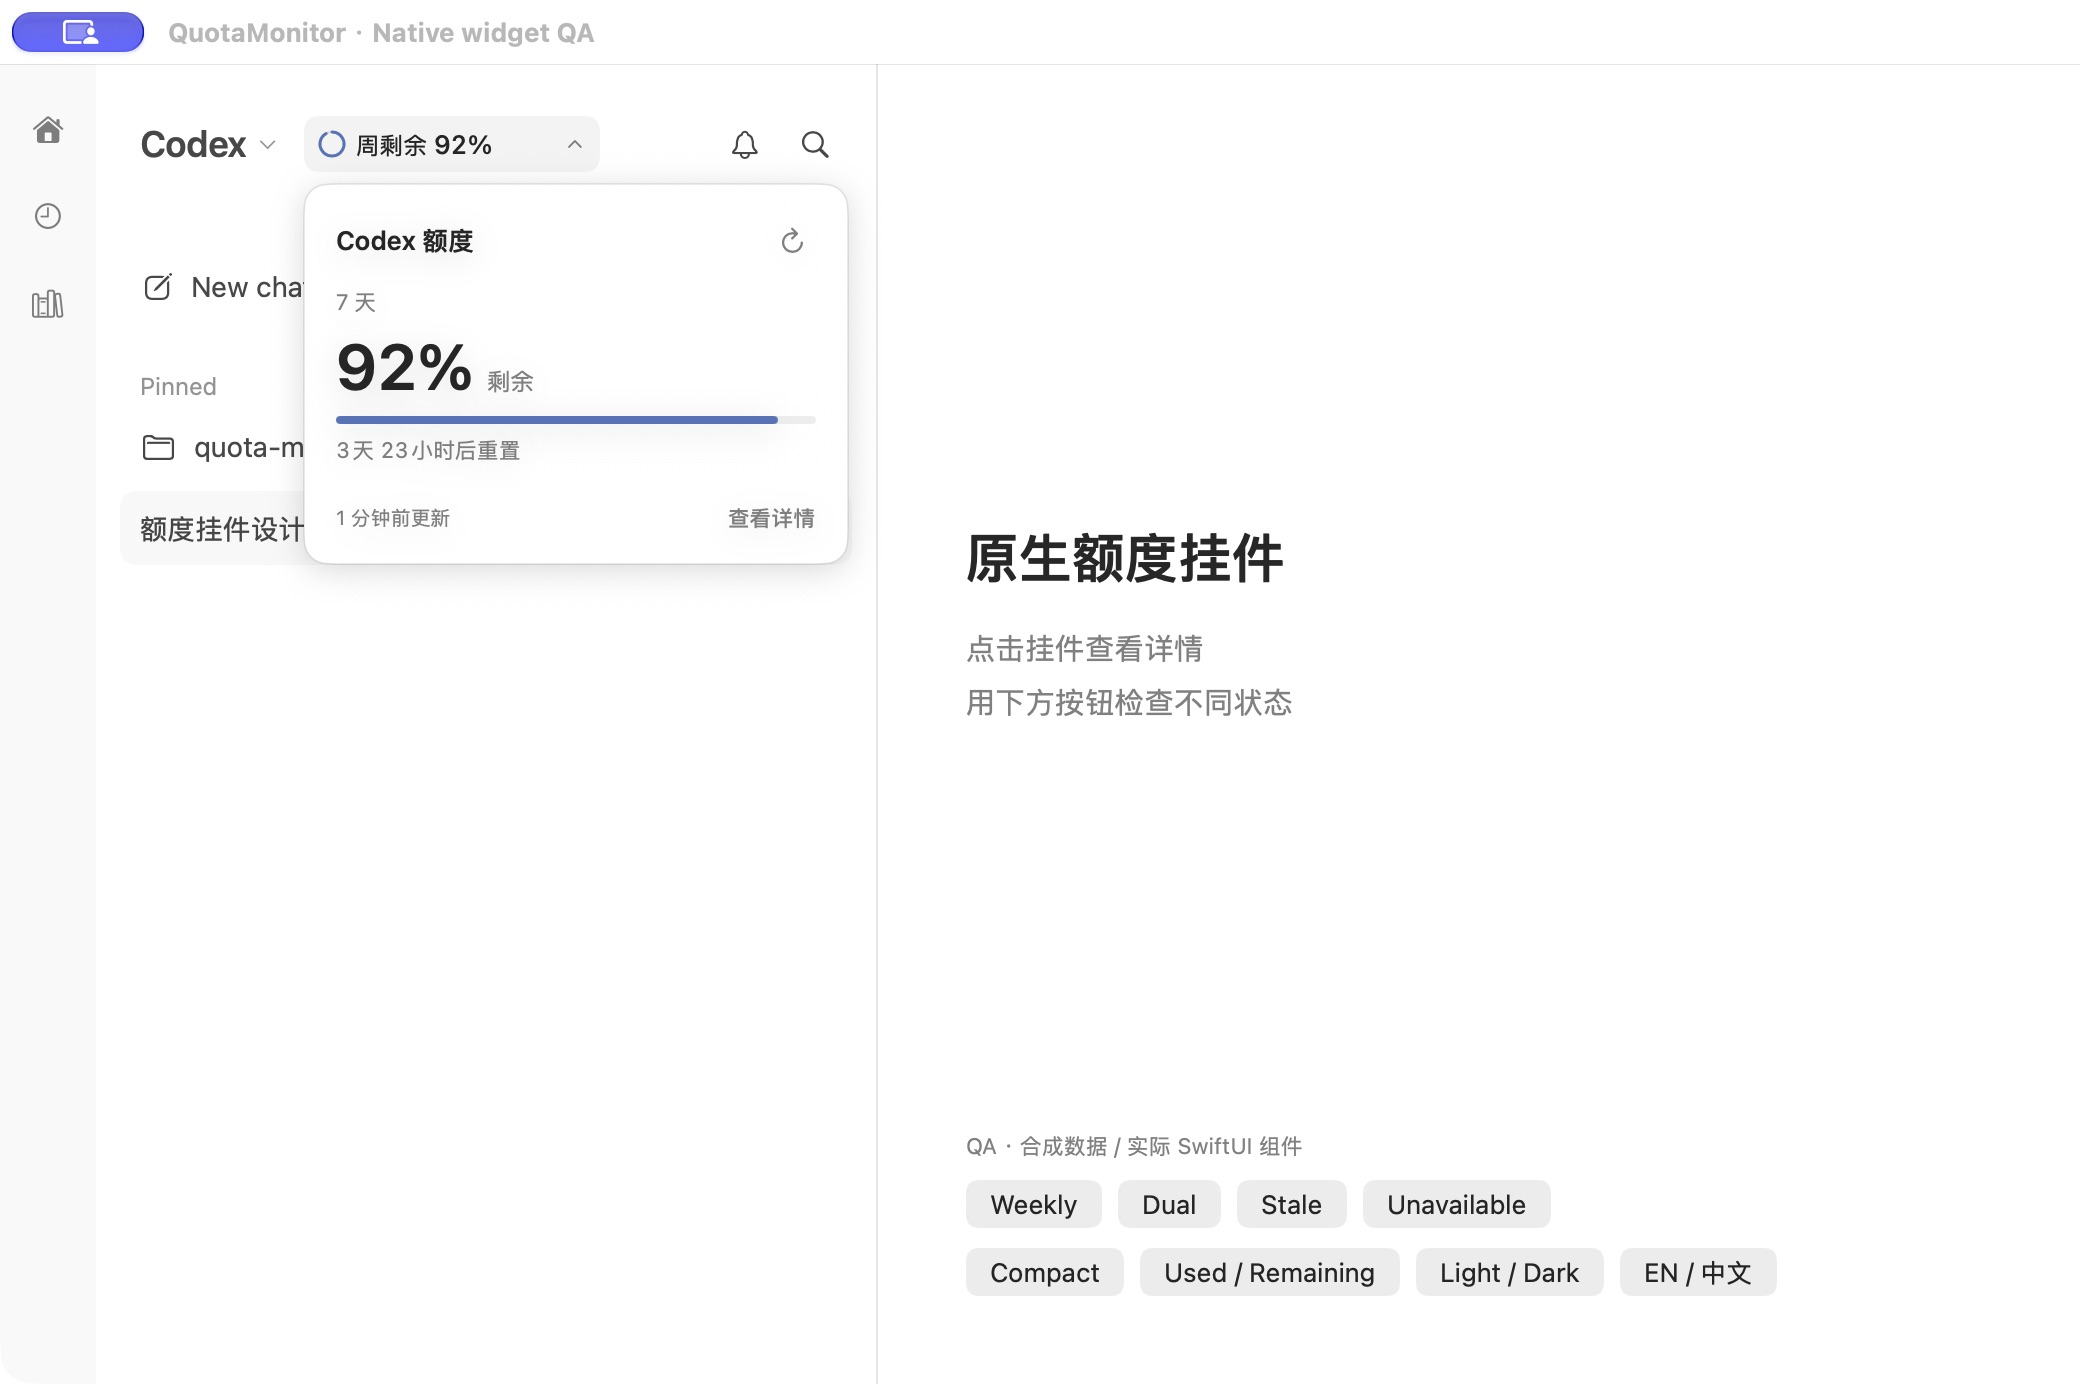
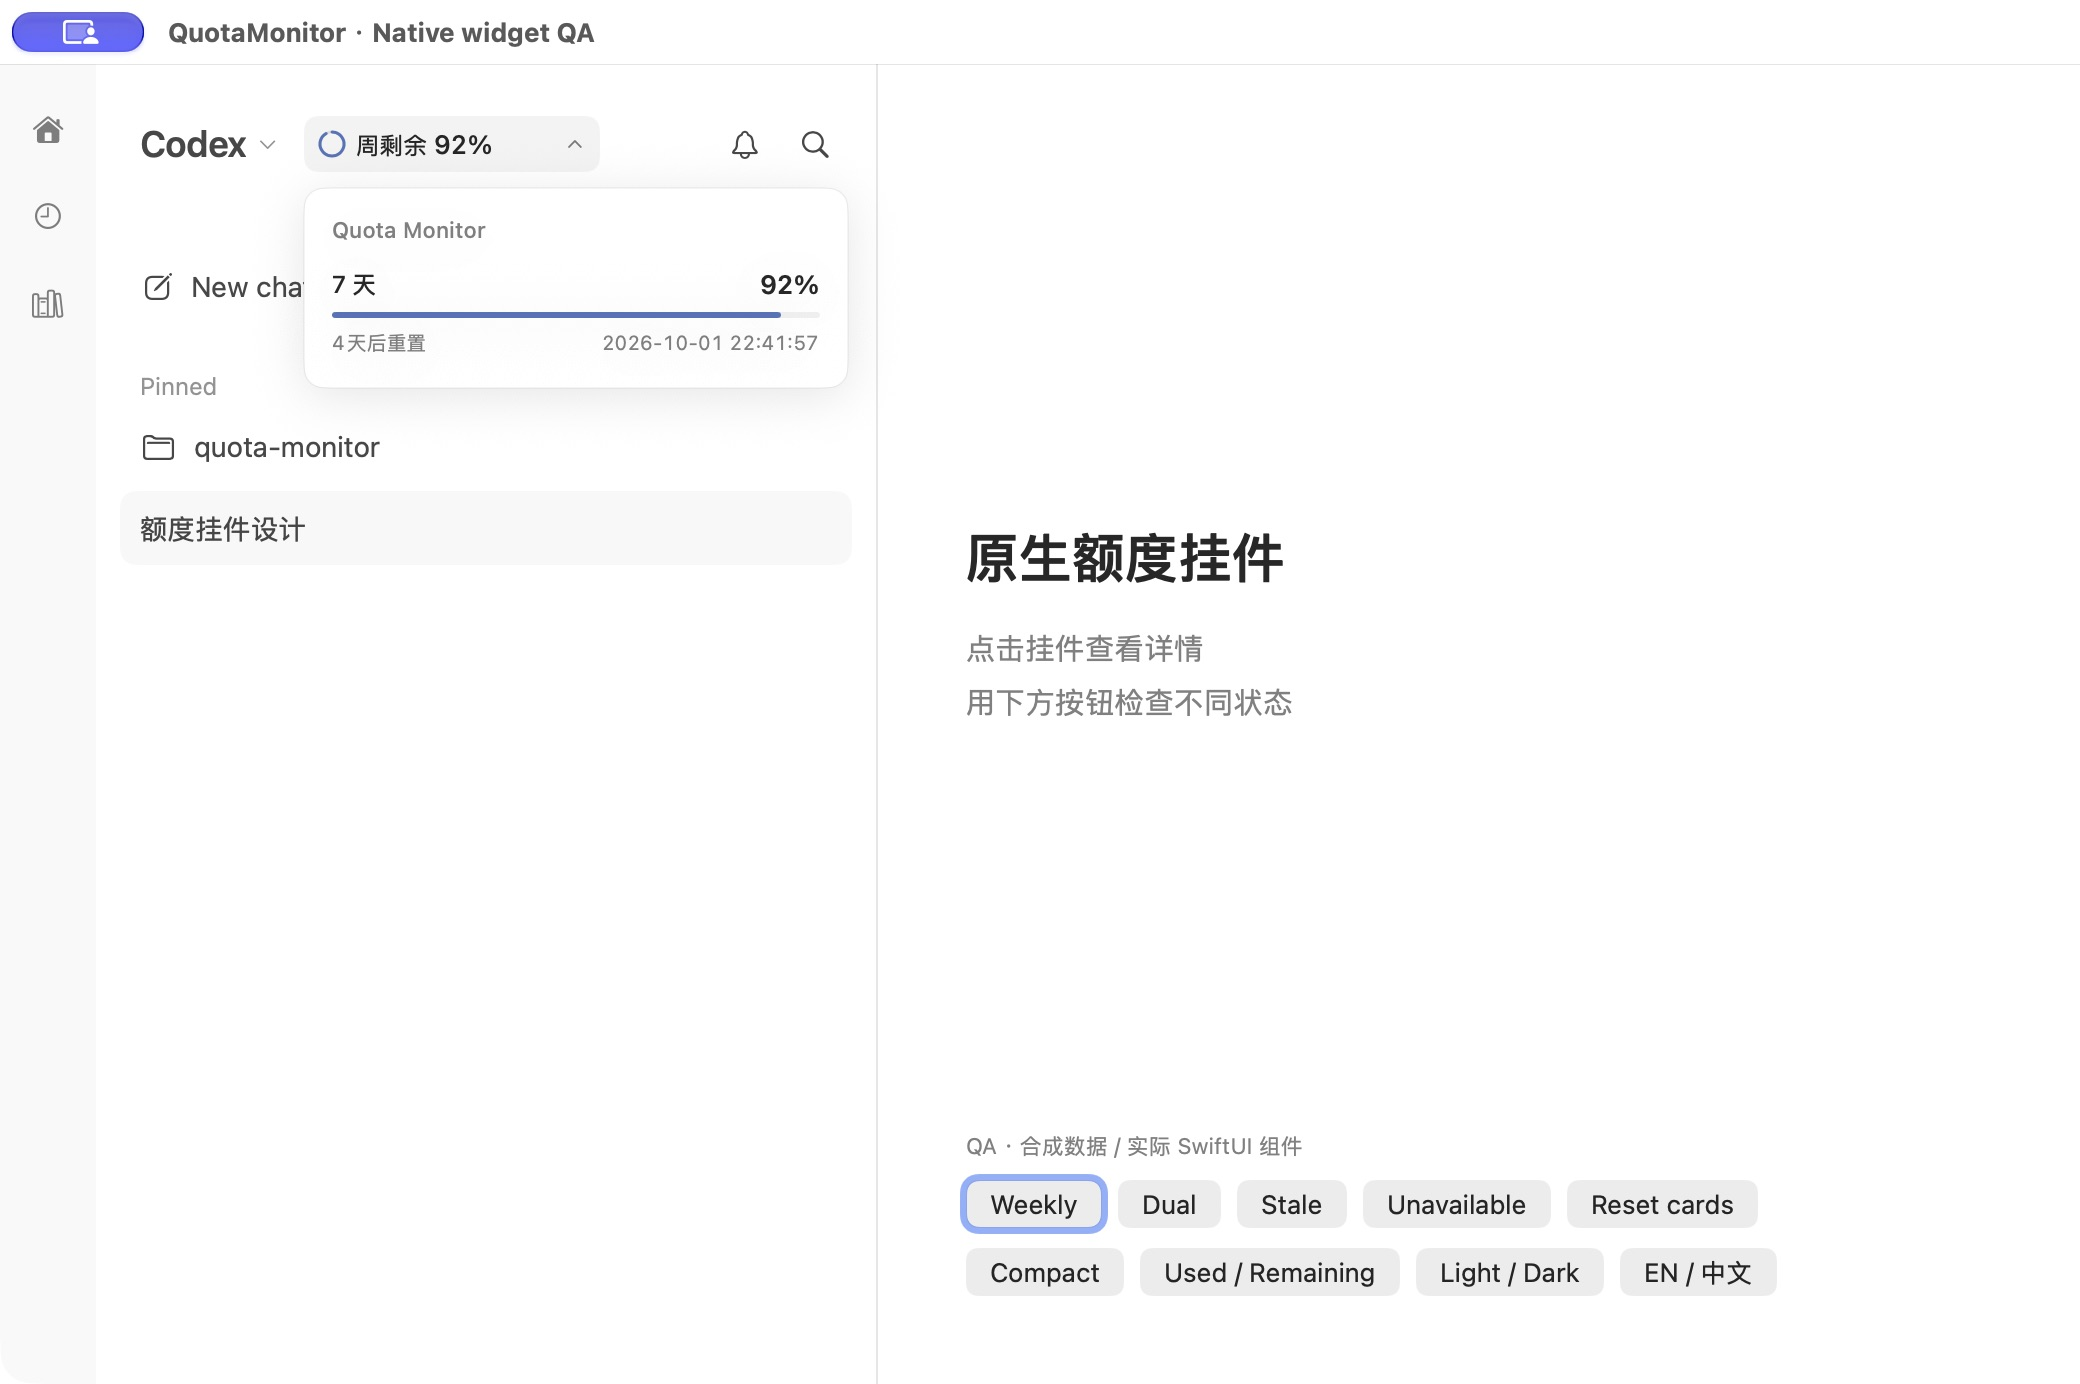
Refresh native screenshots for the compact quota details

diff --git a/docs/qa/sidebar-native-widget/README.md b/docs/qa/sidebar-native-widget/README.md
@@ -1,6 +1,6 @@
 # Sidebar quota widget — native visual evidence
 
-Captured from the running macOS build of `125a543a7713d7513d33117ba1e8363370bd959a` (app version 1.0.8). The following documentation-only commit adds these images without changing app code. Hashes and capture metadata are in [capture.json](capture.json).
+Captured from the running macOS build of `b1d35ecd3c5d316f9e23442eceff8db836cb3760` (app version 1.0.8). The following documentation-only commit adds these images without changing app code. Hashes and capture metadata are in [capture.json](capture.json).
 
 These are Computer Use screenshots of the shipping SwiftUI summary and details components rendered in an isolated native QA gallery, using synthetic quota. The surrounding sidebar is a fixture. The images are not generated mockups or captures of the real Codex host.
 
@@ -10,13 +10,14 @@ These are Computer Use screenshots of the shipping SwiftUI summary and details c
 QM_QA_LANGUAGE=zh-Hans ./qa/prepare-sidebar-widget-preview.sh
 ```
 
-This builds the app, copies it into a uniquely identified QA bundle, and launches with an isolated home, defaults suite, and database. It leaves existing app processes and the installed application untouched. Use the gallery controls for weekly, dual-window, stale, unavailable, compact, used/remaining, locale, and appearance states. Normal launches do not enable the gallery.
+This builds the app, copies it into a uniquely identified QA bundle, and launches with an isolated home, defaults suite, and database. It leaves existing app processes and the installed application untouched. Use the gallery controls for weekly, dual-window, stale, unavailable, reset cards, compact, used/remaining, locale, and appearance states. Normal launches do not enable the gallery.
 
 ## Verification
 
 - `swift test --disable-keychain --filter 'CodexQuotaOverlayTests|RateLimitPollerTests'`: 35 tests passed.
 - `./qa/run-static.sh`: 1,023 Swift tests in 117 suites, 191 Python tests, shell helpers, release notes, and whitespace gate passed.
-- Native gallery: inspected light/dark, weekly/dual, normal/compact, stale/unavailable, English/Chinese, and used/remaining. Verified click toggle and Escape dismissal in the gallery. Corrected clipping in the stale label and English dual-window readout after inspecting the running build.
+- Native gallery: inspected light/dark, weekly/dual, normal/compact, stale/unavailable, English/Chinese, used/remaining, and reset cards. Verified click toggle, Escape dismissal, and no detail panel for unavailable data. All quota reset timestamps and reset-card expirations are fully visible.
+- Expanded content was checked against the original implementation at `af9bf1a`: identical branding and quota headings, percentages, countdown wording, full reset datetimes, and reset-card content. Visual changes use compact aligned rows, restrained blue tracks, lighter title hierarchy, and a soft border/shadow; no new refresh/action footer or explanatory text.
 - Source regression tests cover safe header selection, insufficient space, display conversion, normalized manual placement, drag policy, click-away policy, reset credits, stale/failed refresh, and missing windows.
 
 **UNVERIFIED:** live placement in the external Codex accessibility tree; real host focus, window switching, sidebar collapse, and NSPanel long-press/drag behavior. Computer Use denied access to the Codex app. The gallery validates component rendering and its own interaction wiring; it does not substitute for those host checks. Existing header discovery cadence remains 10 seconds when anchored. Automatic placement now requires an accessible recognized header and enough free space; saved manual positions remain supported.
@@ -34,3 +35,7 @@ This builds the app, copies it into a uniquely identified QA bundle, and launche
 | No quota available | Used mode |
 | --- | --- |
 | ![Unavailable](unavailable.jpg) | ![Used](used-mode.jpg) |
+
+| Reset cards |
+| --- |
+| ![Original reset-card content](reset-cards.jpg) |

diff --git a/design-qa.md b/design-qa.md
@@ -291,3 +291,29 @@ final result: passed
 - `.build/qa-artifacts/update-download-icon/reference-vs-implementation-final.png`
 
 final result: passed
+
+---
+
+# Native quota-widget design QA
+
+Scope: native components; host integration is listed separately below.
+
+Build: `b1d35ecd3c5d316f9e23442eceff8db836cb3760`, app version 1.0.8. Evidence: [native screenshot gallery](docs/qa/sidebar-native-widget/README.md) and [capture metadata](docs/qa/sidebar-native-widget/capture.json).
+
+## Visual and content reference
+
+The selected sidebar-header readout remains the reference for the collapsed widget. For the expanded panel, the latest requested direction is the previous compact panel with redesigned visual styling and unchanged content. Compared the baseline details implementation at `af9bf1a` with the running revised component and an intermediate native screenshot of the restored baseline content.
+
+## Observed result
+
+- The expanded panel retains the brand heading, actual quota-window titles and percentages, countdowns, complete reset datetimes, and reset-card availability/expirations. No extra copy or actions were added. Reset-card rendering and countdown helpers retain the original content implementation.
+- A 272 pt panel uses compact aligned rows, 3 pt muted-blue tracks, 14 pt padding, a quieter brand heading, and a thin border. The percentage remains legible at 13 pt rather than taking over the card.
+- Weekly/dual, English/Chinese, light/dark, normal/compact, stale/unavailable, used/remaining, and reset-card states were inspected in the running native build. No overlapping text or clipped timestamps were observed in those states.
+- The summary exposes real missing/stale states and continues to use the selected display mode. In the gallery, click toggles, Escape dismisses, and unavailable quota does not open new detail content.
+- No unresolved P0/P1/P2 findings within this component review scope.
+
+## Validation boundary
+
+The screenshots are unedited captures of the actual shipping SwiftUI views in an isolated native QA gallery. The surrounding sidebar and quota values are fixtures. Live Codex AX placement, focus/window switching/sidebar collapse, and NSPanel drag integration remain **UNVERIFIED** because Computer Use denied direct access to Codex. Component QA does not certify those host checks.
+
+final result: passed
